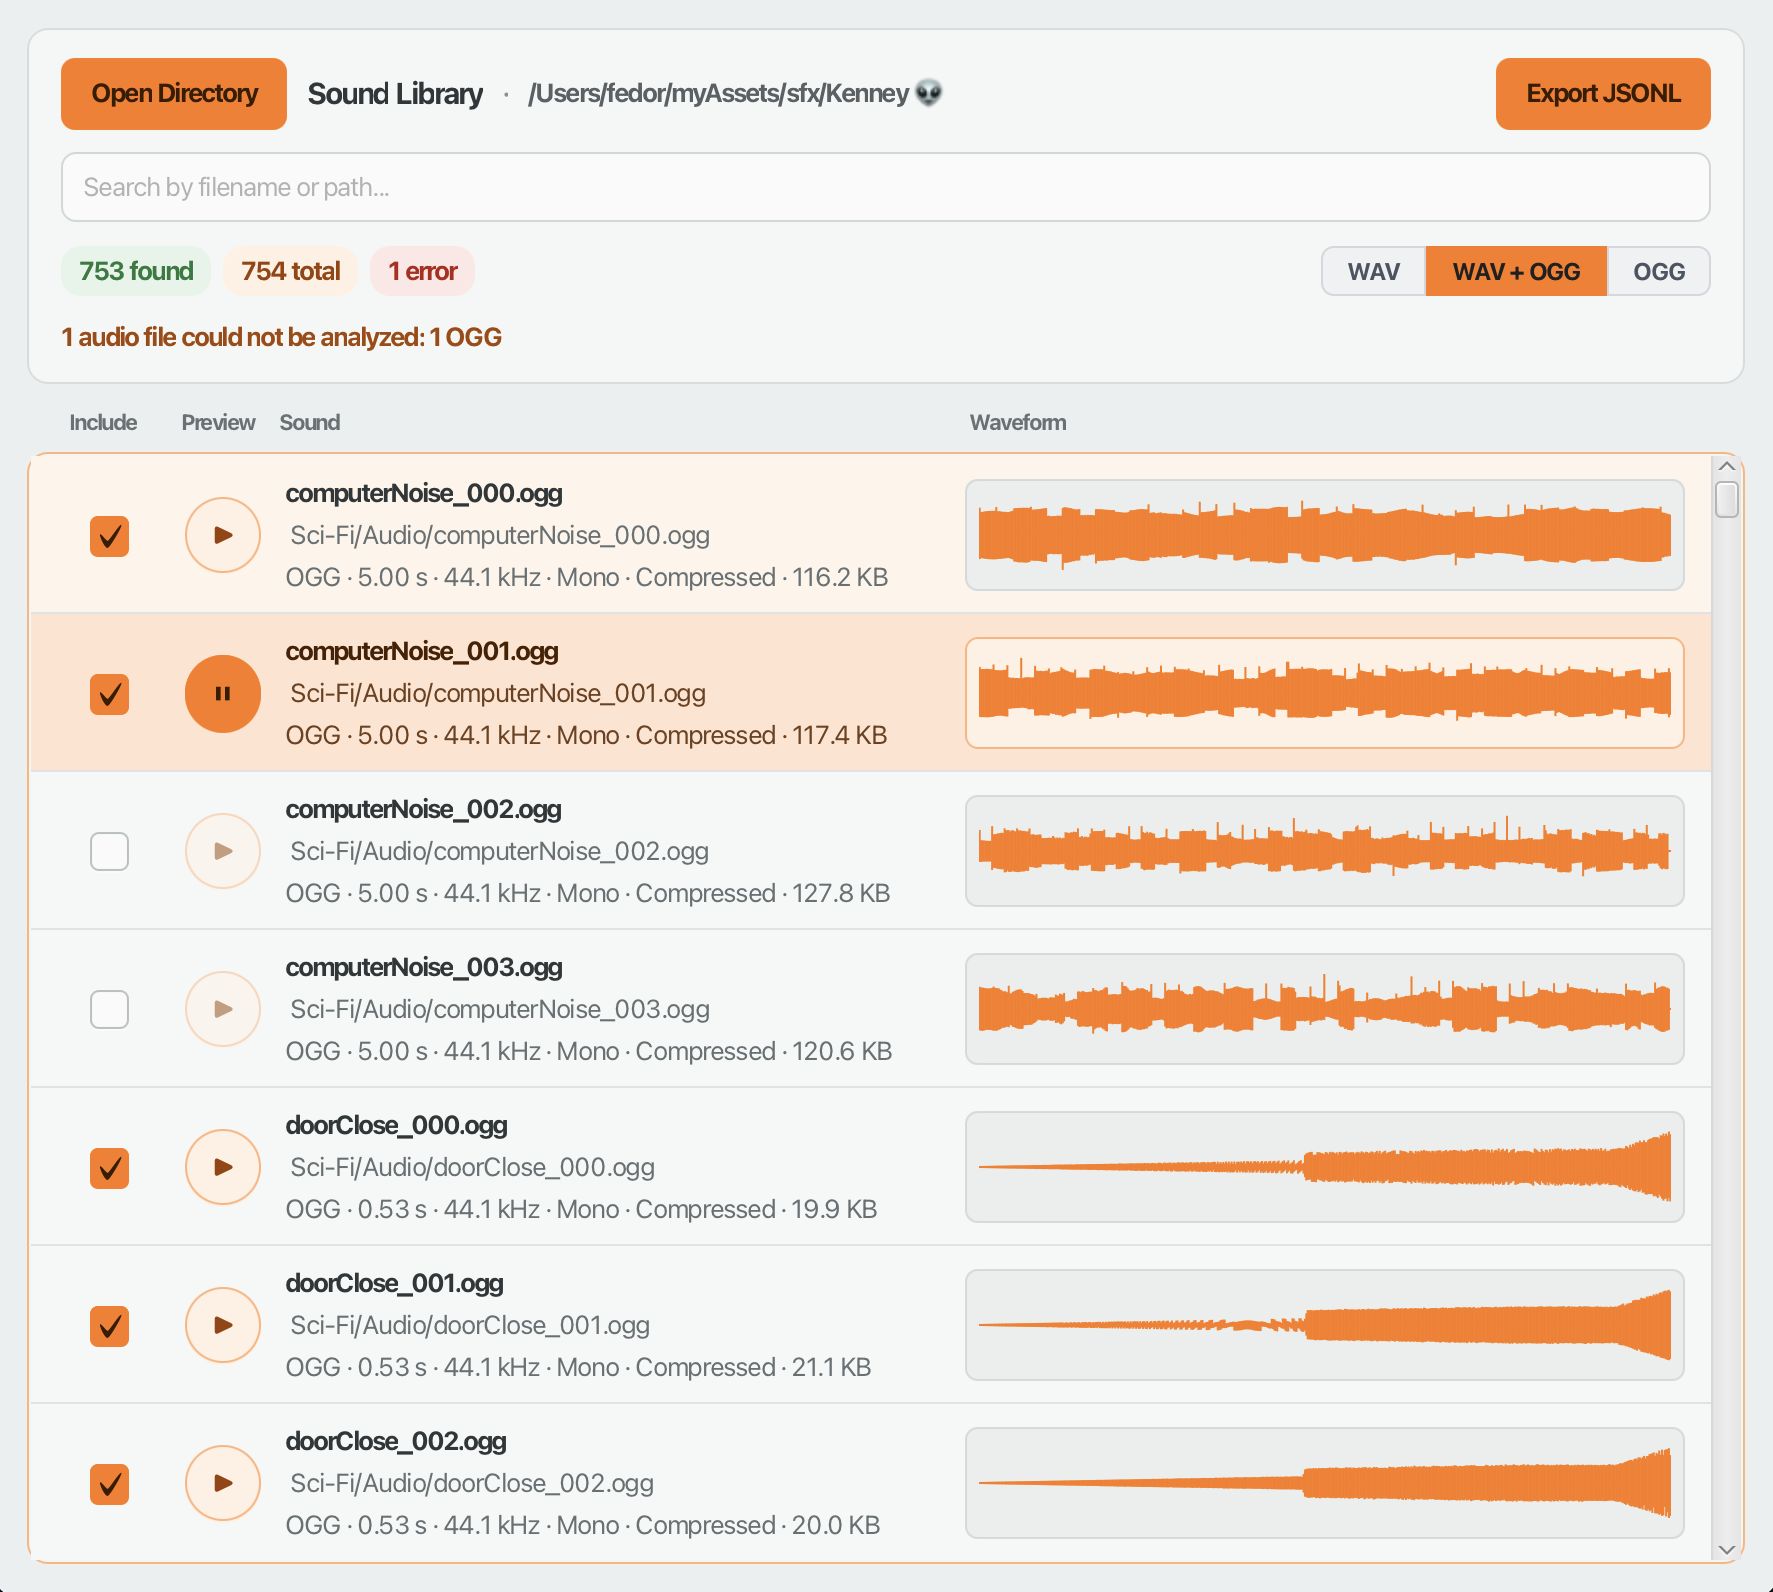
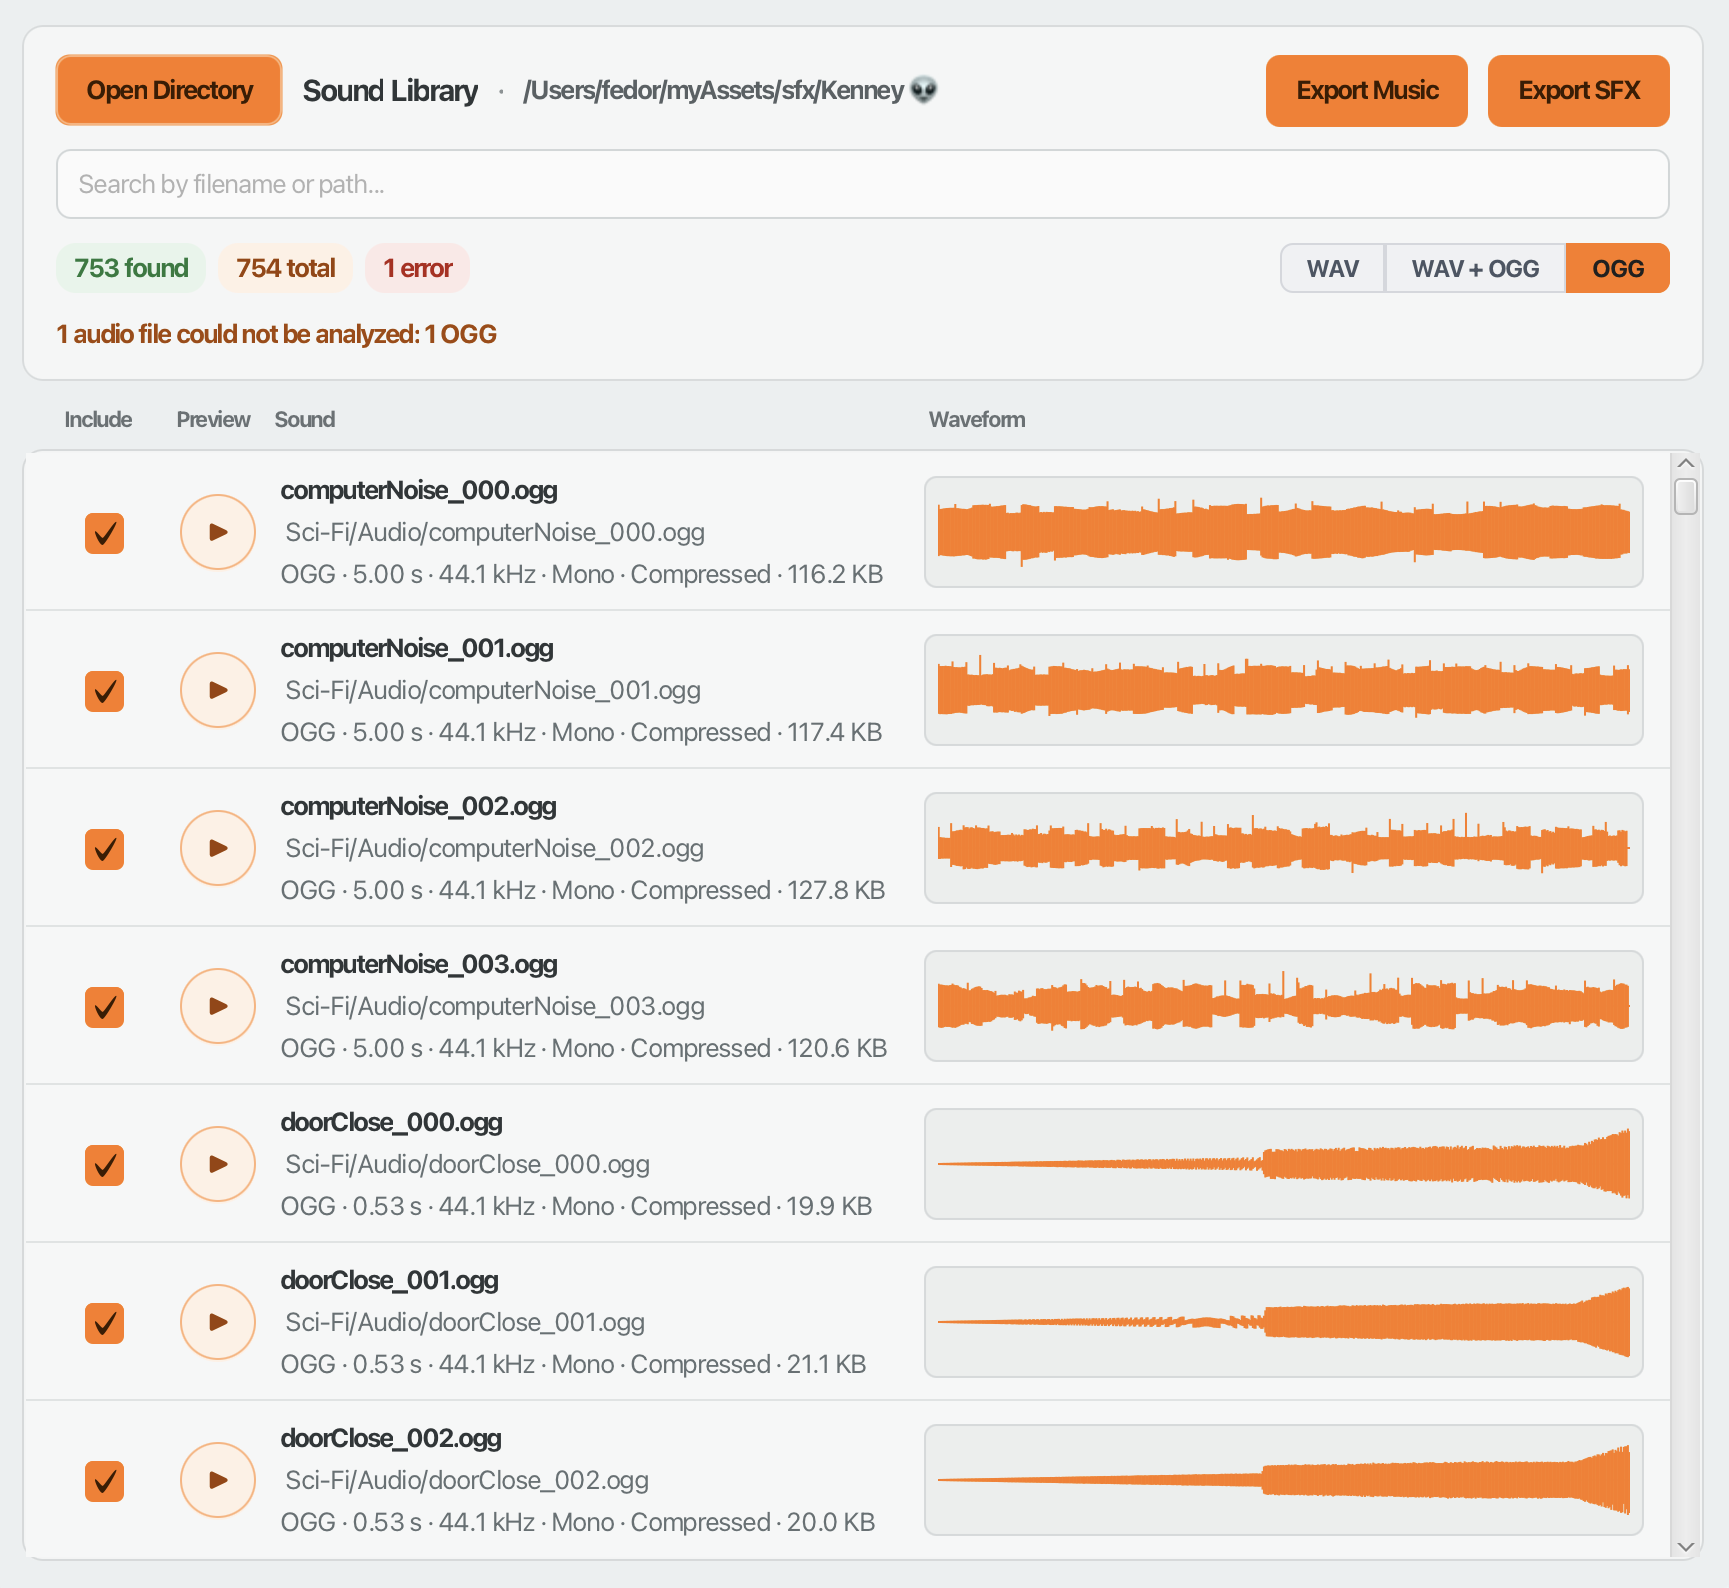
update activity analyzer (add new metrics)

diff --git a/src/main/java/com/fedorizvekov/soundbrowser/service/analysis/ActivityAnalyzer.java b/src/main/java/com/fedorizvekov/soundbrowser/service/analysis/ActivityAnalyzer.java
@@ -17,6 +17,11 @@ public final class ActivityAnalyzer {
     private static final double EVENT_GAP_SECONDS = 0.08;
     private static final double ATTACK_LEVEL_RATIO = 0.9;
 
+    private static final double ONSET_RISE_DB = 6.0;
+    private static final double ONSET_RISE_RATIO = Math.pow(10.0, ONSET_RISE_DB / 20.0);
+    private static final double ONSET_LOOKBACK_SECONDS = 0.05;
+    private static final double ONSET_MIN_INTERVAL_SECONDS = 0.05;
+
     private final double sampleRate;
     private final int windowFrames;
     private final List<Double> windowRms = new ArrayList<>();
@@ -68,7 +73,7 @@ public final class ActivityAnalyzer {
         }
 
         if (maximumWindowRms <= ABSOLUTE_ACTIVITY_THRESHOLD) {
-            return new ActivityMetrics(durationSeconds, 0.0, 0.0, 0.0, 0);
+            return new ActivityMetrics(durationSeconds, 0.0, 0.0, 0.0, 0, 0, 0.0);
         }
 
         var activityThreshold = Math.max(ABSOLUTE_ACTIVITY_THRESHOLD, maximumWindowRms * RELATIVE_ACTIVITY_THRESHOLD);
@@ -93,7 +98,7 @@ public final class ActivityAnalyzer {
         }
 
         if (firstActive < 0) {
-            return new ActivityMetrics(durationSeconds, 0.0, 0.0, 0.0, 0);
+            return new ActivityMetrics(durationSeconds, 0.0, 0.0, 0.0, 0, 0, 0.0);
         }
 
         var firstActiveFrame = (long) firstActive * windowFrames;
@@ -106,11 +111,23 @@ public final class ActivityAnalyzer {
 
         var eventGapWindows = Math.max(1, (int) Math.round(EVENT_GAP_SECONDS * sampleRate / windowFrames));
 
-        var eventCount = countEvents(active, firstActive, lastActive, eventGapWindows);
+        var activitySegmentCount = countEvents(active, firstActive, lastActive, eventGapWindows);
 
         var attackSeconds = calculateAttackSeconds(active, firstActive, lastActive, eventGapWindows);
 
-        return new ActivityMetrics(leadingSilenceSeconds, trailingSilenceSeconds, activeDurationSeconds, attackSeconds, eventCount);
+        var onsetCount = countOnsets(active, firstActive, lastActive, activityThreshold);
+
+        var onsetRate = durationSeconds > 0.0 ? onsetCount / durationSeconds : 0.0;
+
+        return new ActivityMetrics(
+                leadingSilenceSeconds,
+                trailingSilenceSeconds,
+                activeDurationSeconds,
+                attackSeconds,
+                activitySegmentCount,
+                onsetCount,
+                onsetRate
+        );
     }
 
 
@@ -174,6 +191,52 @@ public final class ActivityAnalyzer {
     }
 
 
+    private int countOnsets(boolean[] active, int firstActive, int lastActive, double activityThreshold) {
+
+        var lookbackWindows = Math.max(1, (int) Math.round(ONSET_LOOKBACK_SECONDS * sampleRate / windowFrames));
+
+        var minimumIntervalWindows = Math.max(1, (int) Math.round(ONSET_MIN_INTERVAL_SECONDS * sampleRate / windowFrames));
+
+        var onsetCount = 1;
+        var lastOnset = firstActive;
+
+        for (var index = firstActive + 1; index <= lastActive; index++) {
+
+            if (!active[index]) {
+                continue;
+            }
+
+            if (index - lastOnset < minimumIntervalWindows) {
+                continue;
+            }
+
+            var baseline = findOnsetBaseline(index, firstActive, lookbackWindows, activityThreshold);
+
+            if (windowRms.get(index) < baseline * ONSET_RISE_RATIO) {
+                continue;
+            }
+
+            onsetCount++;
+            lastOnset = index;
+        }
+
+        return onsetCount;
+    }
+
+
+    private double findOnsetBaseline(int index, int firstActive, int lookbackWindows, double activityThreshold) {
+
+        var start = Math.max(firstActive, index - lookbackWindows);
+        var baseline = Double.POSITIVE_INFINITY;
+
+        for (var previous = start; previous < index; previous++) {
+            baseline = Math.min(baseline, windowRms.get(previous));
+        }
+
+        return Math.max(activityThreshold, baseline);
+    }
+
+
     private double calculateAttackSeconds(boolean[] active, int firstActive, int lastActive, int eventGapWindows) {
 
         var firstEventEnd = lastActive;
@@ -220,7 +283,7 @@ public final class ActivityAnalyzer {
 
 
     private ActivityMetrics emptyMetrics() {
-        return new ActivityMetrics(0.0, 0.0, 0.0, 0.0, 0);
+        return new ActivityMetrics(0.0, 0.0, 0.0, 0.0, 0, 0, 0.0);
     }
 
 }

diff --git a/src/test/java/com/fedorizvekov/soundbrowser/service/analysis/ActivityAnalyzerTest.java b/src/test/java/com/fedorizvekov/soundbrowser/service/analysis/ActivityAnalyzerTest.java
@@ -84,6 +84,61 @@ class ActivityAnalyzerTest {
 
 
     @Test
+    @DisplayName("Should count multiple onsets inside one activity segment")
+    void shouldCountMultipleOnsetsInsideOneActivitySegment() {
+
+        accept(analyzer, 1.0, 100);
+        accept(analyzer, 0.2, 200);
+        accept(analyzer, 1.0, 100);
+
+        var metrics = analyzer.finish();
+
+        assertAll(
+                () -> assertThat(metrics.activitySegmentCount()).isEqualTo(1),
+                () -> assertThat(metrics.onsetCount()).isEqualTo(2),
+                () -> assertThat(metrics.onsetRate()).isCloseTo(5.0, within(0.000001))
+        );
+    }
+
+
+    @Test
+    @DisplayName("Should ignore small level changes as onsets")
+    void shouldIgnoreSmallLevelChangesAsOnsets() {
+
+        accept(analyzer, 1.0, 100);
+        accept(analyzer, 0.7, 100);
+        accept(analyzer, 1.0, 100);
+
+        var metrics = analyzer.finish();
+
+        assertAll(
+                () -> assertThat(metrics.activitySegmentCount()).isEqualTo(1),
+                () -> assertThat(metrics.onsetCount()).isEqualTo(1)
+        );
+    }
+
+
+    @Test
+    @DisplayName("Should count separated events as onsets")
+    void shouldCountSeparatedEventsAsOnsets() {
+
+        accept(analyzer, 1.0, 10);
+        accept(analyzer, 0.0, 90);
+
+        accept(analyzer, 1.0, 10);
+        accept(analyzer, 0.0, 90);
+
+        var metrics = analyzer.finish();
+
+        assertAll(
+                () -> assertThat(metrics.activitySegmentCount()).isEqualTo(2),
+                () -> assertThat(metrics.onsetCount()).isEqualTo(2),
+                () -> assertThat(metrics.onsetRate()).isCloseTo(10.0, within(0.000001))
+        );
+    }
+
+
+    @Test
     @DisplayName("Should return full duration as leading silence for inactive signal")
     void shouldReturnFullDurationAsLeadingSilenceForInactiveSignal() {
 
@@ -96,7 +151,9 @@ class ActivityAnalyzerTest {
                 () -> assertThat(metrics.trailingSilenceSeconds()).isZero(),
                 () -> assertThat(metrics.activeDurationSeconds()).isZero(),
                 () -> assertThat(metrics.attackSeconds()).isZero(),
-                () -> assertThat(metrics.activitySegmentCount()).isZero()
+                () -> assertThat(metrics.activitySegmentCount()).isZero(),
+                () -> assertThat(metrics.onsetCount()).isZero(),
+                () -> assertThat(metrics.onsetRate()).isZero()
         );
     }
 
@@ -151,7 +208,9 @@ class ActivityAnalyzerTest {
                 () -> assertThat(metrics.trailingSilenceSeconds()).isZero(),
                 () -> assertThat(metrics.activeDurationSeconds()).isZero(),
                 () -> assertThat(metrics.attackSeconds()).isZero(),
-                () -> assertThat(metrics.activitySegmentCount()).isZero()
+                () -> assertThat(metrics.activitySegmentCount()).isZero(),
+                () -> assertThat(metrics.onsetCount()).isZero(),
+                () -> assertThat(metrics.onsetRate()).isZero()
         );
     }
 

diff --git a/src/test/java/com/fedorizvekov/soundbrowser/service/analysis/SfxFeaturesServiceTest.java b/src/test/java/com/fedorizvekov/soundbrowser/service/analysis/SfxFeaturesServiceTest.java
@@ -58,7 +58,9 @@ class SfxFeaturesServiceTest {
                 () -> assertThat(metrics.trailingSilenceSeconds()).isCloseTo(0.19, within(0.01)),
                 () -> assertThat(metrics.activeDurationSeconds()).isCloseTo(9.04, within(0.01)),
                 () -> assertThat(metrics.attackSeconds()).isCloseTo(0.5, within(0.01)),
-                () -> assertThat(metrics.activitySegmentCount()).isEqualTo(10)
+                () -> assertThat(metrics.activitySegmentCount()).isEqualTo(10),
+                () -> assertThat(metrics.onsetCount()).isGreaterThanOrEqualTo(metrics.activitySegmentCount()),
+                () -> assertThat(metrics.onsetRate()).isPositive()
         );
     }
 

diff --git a/src/main/java/com/fedorizvekov/soundbrowser/model/analysis/ActivityMetrics.java b/src/main/java/com/fedorizvekov/soundbrowser/model/analysis/ActivityMetrics.java
@@ -5,6 +5,8 @@ public record ActivityMetrics(
         double trailingSilenceSeconds,
         double activeDurationSeconds,
         double attackSeconds,
-        int activitySegmentCount
+        int activitySegmentCount,
+        int onsetCount,
+        double onsetRate
 ) {
 }

diff --git a/README.md b/README.md
@@ -1,4 +1,4 @@
-# Sound Browser v1.0.24
+# Sound Browser v1.0.25
 
 A desktop application designed to help game developers quickly browse, preview, analyze, and select audio content from large sound libraries.
 
@@ -39,12 +39,12 @@ Sound Browser makes it easier to explore large collections of sound effects, fin
 
 ```bash
 ./mvnw clean package
-java -jar target/sound-browser-1.0.24.jar
+java -jar target/sound-browser-1.0.25.jar
 ```
 
 ### Windows
 
 ```powershell
 .\mvnw.cmd clean package
-java -jar target\sound-browser-1.0.24.jar
+java -jar target\sound-browser-1.0.25.jar
 ```
